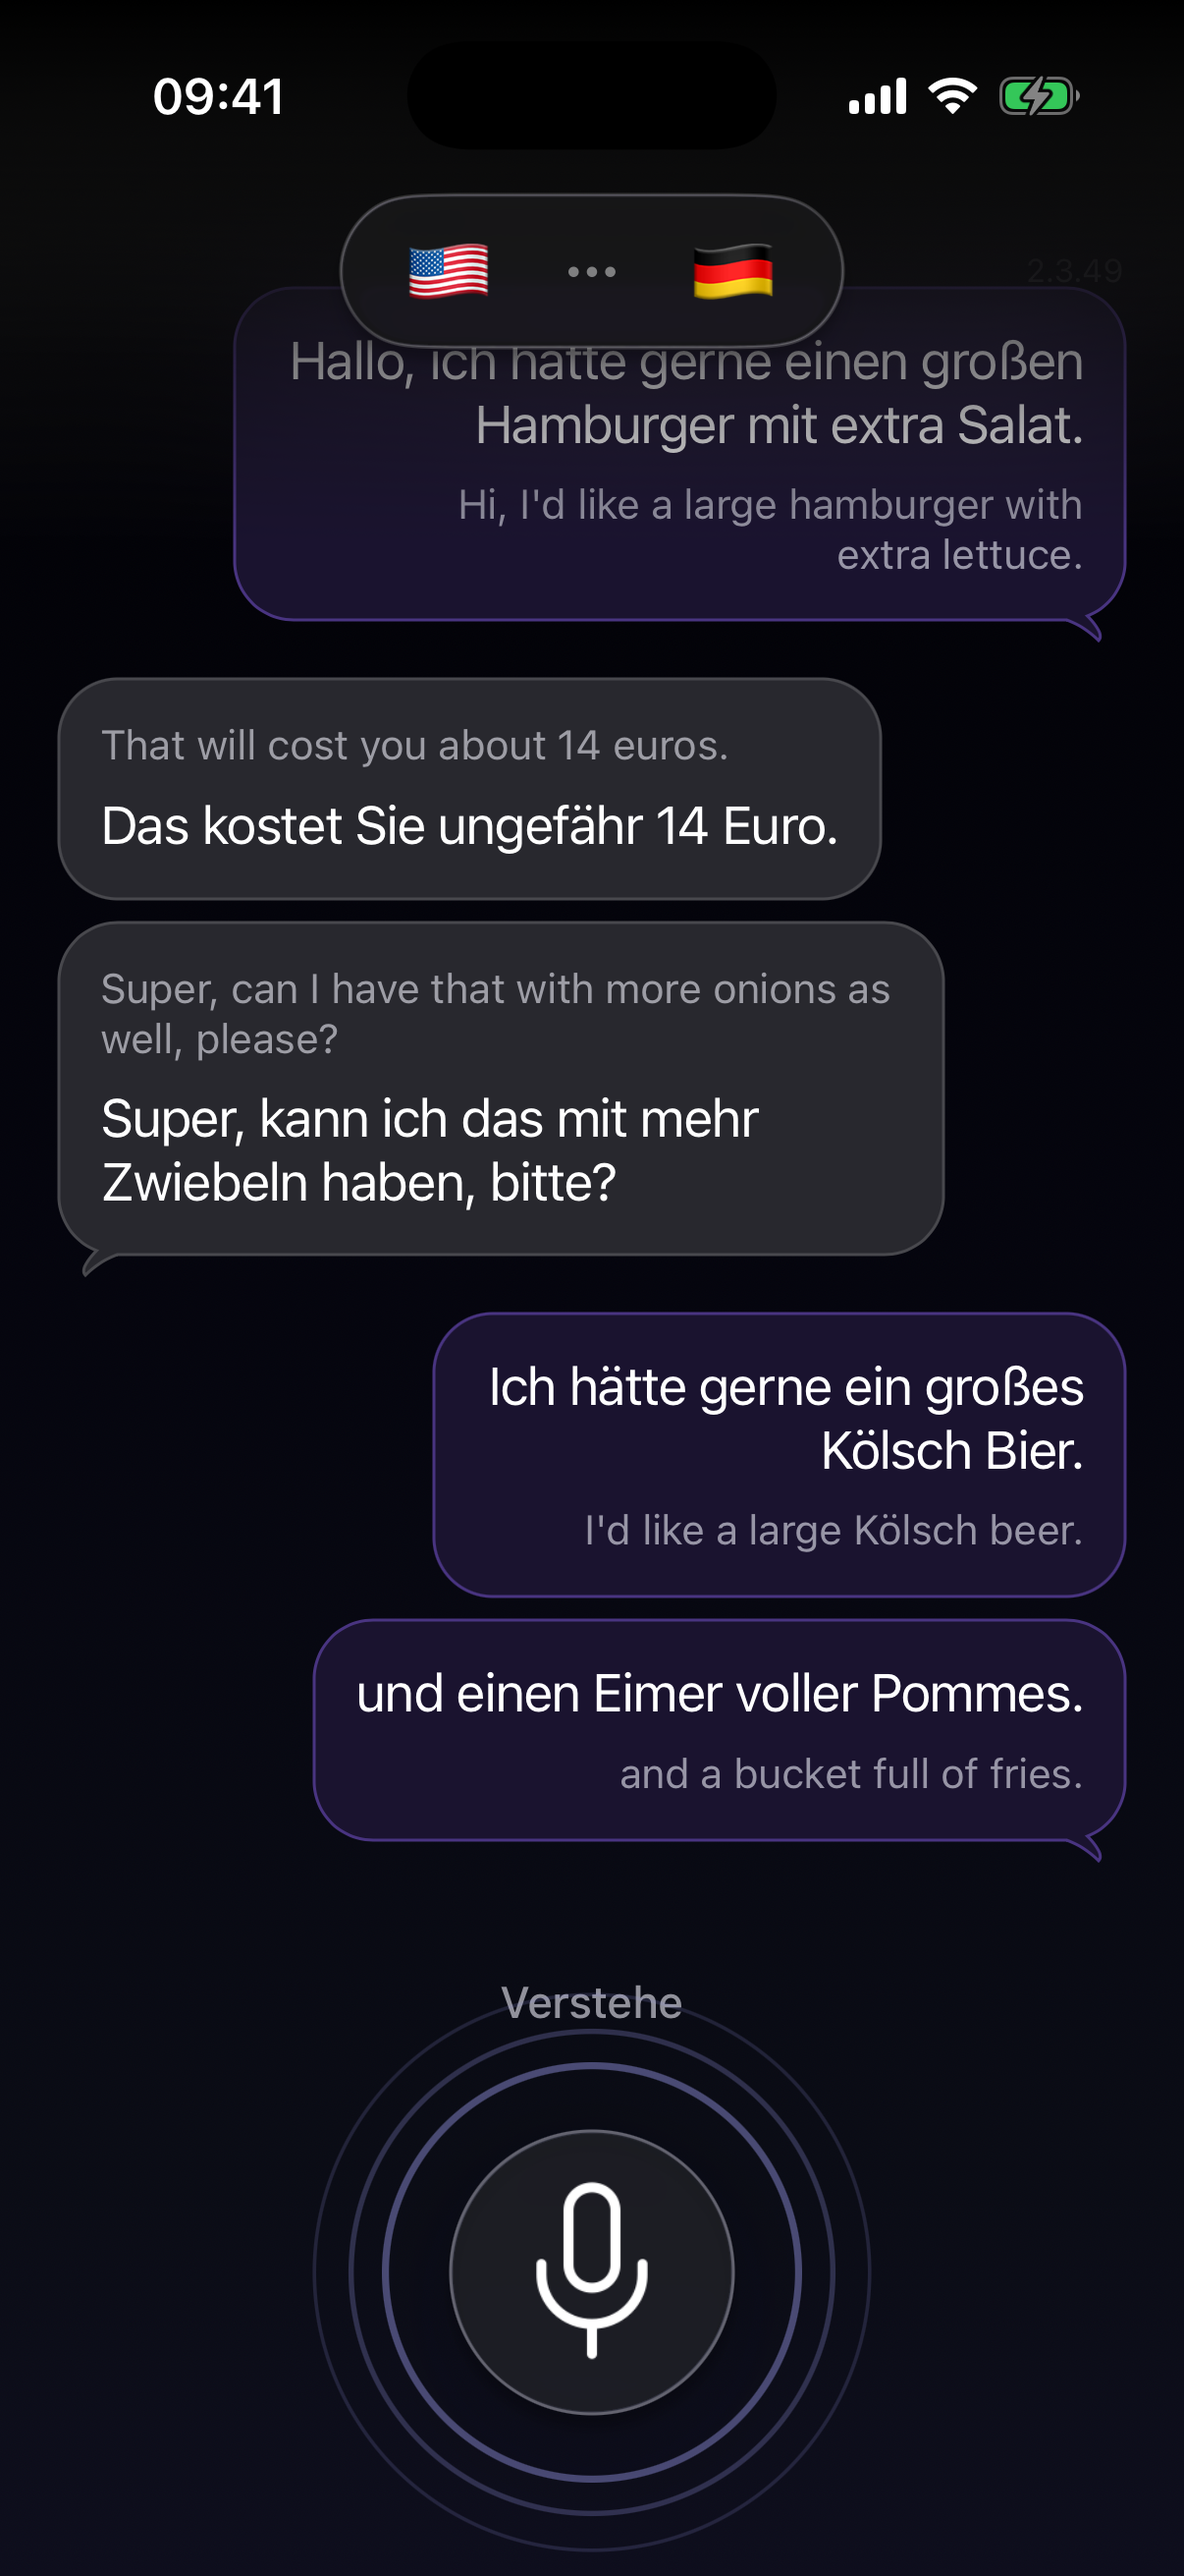
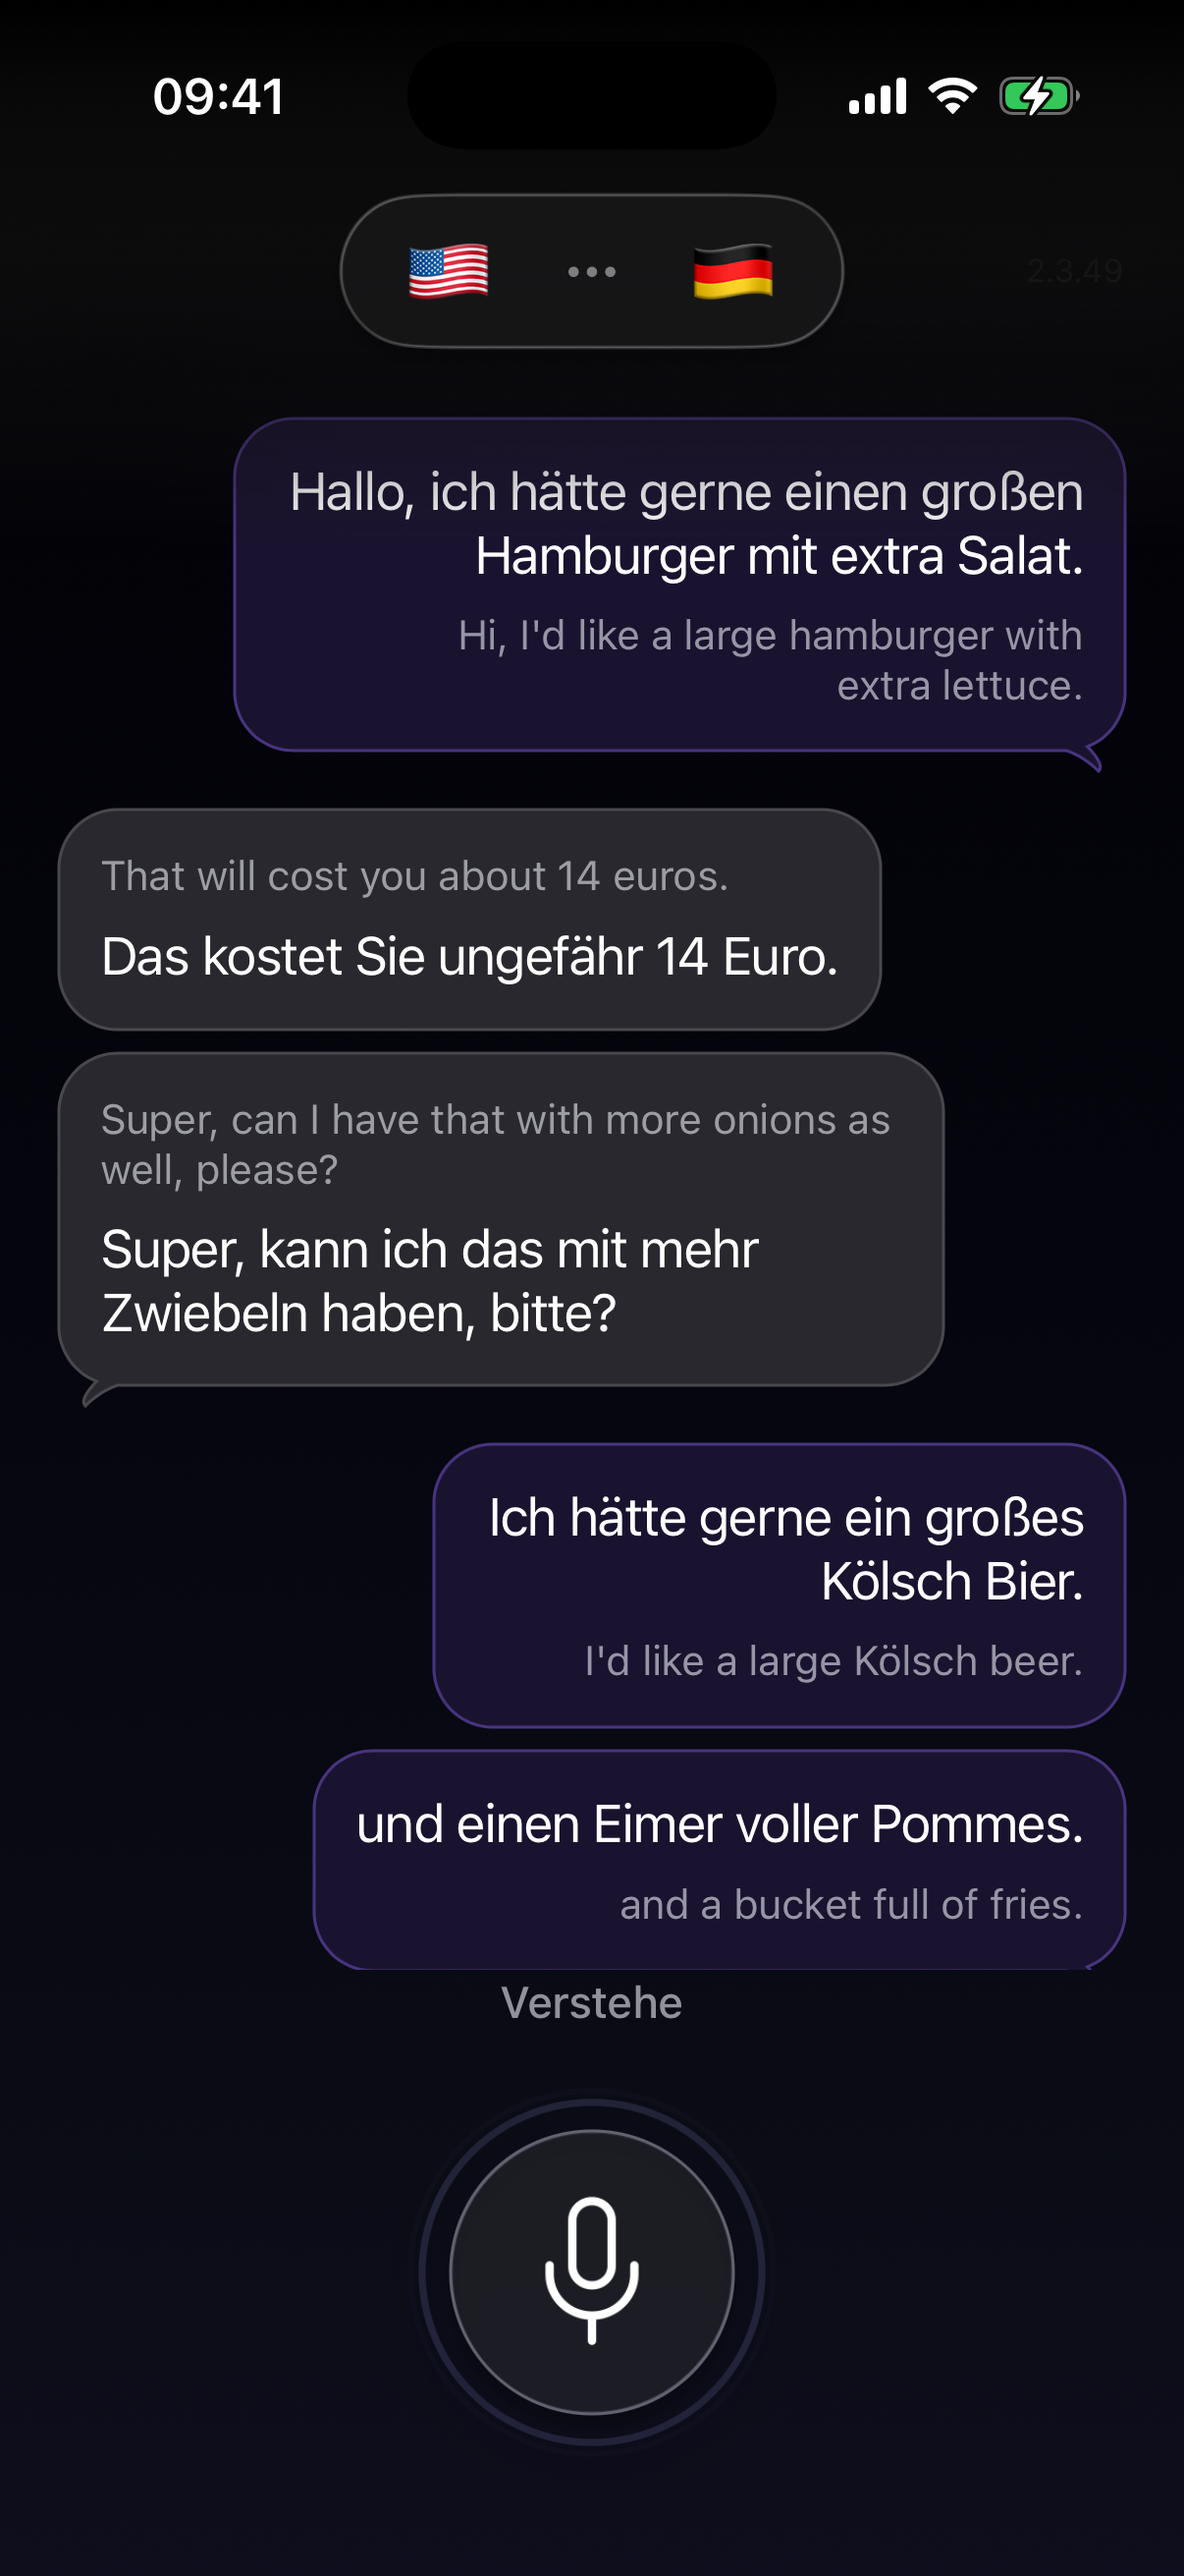
Nothing in a store frame is half-hidden, and the capture is a script now
Recaptured all three from this branch's build (2.3.49) on the 6.3" and
6.9" simulators, seeded with the same invented food-order transcript.

The 6.3" frame no longer cuts its first bubble. The seeded transcript is
slightly taller than that viewport, so at one end of its scroll range the
first bubble sits under the language pill and at the other the last sits
under the status line; there is a position between them where neither
does, and that is where this is captured. The 6.9" screen is tall enough
that the question never arises.

The third frame is no longer the muted state. micReadsAsMuted is true
whenever the app is not listening, so an idle capture is the amber
struck-through mic — accurate, and to anyone scrolling the App Store it
is the symbol for a microphone that is blocked. The two 6.9" frames are
now the two halves of a live turn: Verstehe (hearing you) and Uebersetze
(speaking back), which is also what makes them worth two slots.

Tools/appstore_flatten.py replaces the flatten step whose script lived in
a session scratchpad and is gone. It refuses on the first non-opaque
pixel rather than compositing it against an arbitrary background, and
refuses a wrong frame size; both refusals verified against a deliberately
tampered copy. Verified the flatten is lossless: each shipped PNG is
pixel-identical to its raw capture on RGB.

Tools/appstore-shots.sh is the capture itself — build, install, grant,
[…]

Changed region(s): [[0.0307, 0.1236, 0.9511, 1.0], [0.859, 0.0309, 0.8897, 0.0618]]

diff --git a/Tools/appstore_flatten.py b/Tools/appstore_flatten.py
@@ -1,0 +1,71 @@
+#!/usr/bin/env python3
+"""Flatten App Store screenshots to opaque RGB, refusing anything lossy.
+
+App Store Connect rejects PNGs carrying an alpha channel. A simulator
+capture always has one, and it is always fully opaque — so dropping it is a
+channel removal, not a composite, and the pixels a reviewer sees are the
+pixels the app drew.
+
+That "always" is the part worth checking rather than trusting: if any pixel
+were actually transparent, dropping alpha would silently composite it
+against whatever RGB happened to sit underneath, and the frame shipped to
+the store would differ from the frame the app rendered. So this refuses on
+the first non-opaque pixel instead of producing a plausible-looking file.
+
+Usage:  Tools/appstore_flatten.py <in.png> <out.png> [--expect WxH]
+
+The one-off script that produced the first set of captures lived in a
+session scratchpad and is gone (PR #95); this is that step, kept.
+"""
+import sys
+
+from PIL import Image
+
+
+def flatten(src: str, dst: str, expect: str | None) -> int:
+    image = Image.open(src)
+
+    if expect:
+        want = tuple(int(n) for n in expect.lower().split("x"))
+        if image.size != want:
+            print(f"!!  {src} is {image.size[0]}x{image.size[1]}, expected "
+                  f"{want[0]}x{want[1]} — wrong simulator, or a scaled capture.",
+                  file=sys.stderr)
+            return 1
+
+    if image.mode in ("RGBA", "LA") or "transparency" in image.info:
+        alpha = image.convert("RGBA").getchannel("A")
+        low, high = alpha.getextrema()
+        if low != 255:
+            print(f"!!  {src} has a non-opaque pixel (min alpha {low}).",
+                  file=sys.stderr)
+            print("!!  Dropping alpha would composite it against an "
+                  "arbitrary background, so the store frame would no longer "
+                  "be what the app drew. Refusing.", file=sys.stderr)
+            return 1
+
+    # Every pixel is opaque, so this discards a constant channel and touches
+    # no colour value. Saved without alpha; dimensions are untouched.
+    image.convert("RGB").save(dst, format="PNG", optimize=True)
+
+    check = Image.open(dst)
+    if check.mode != "RGB" or check.size != image.size:
+        print(f"!!  {dst} came back as {check.mode} {check.size} — "
+              f"expected RGB {image.size}.", file=sys.stderr)
+        return 1
+    print(f"==> {dst}  {check.size[0]}x{check.size[1]}  RGB, no alpha")
+    return 0
+
+
+def main(argv: list[str]) -> int:
+    if len(argv) < 3:
+        print(__doc__, file=sys.stderr)
+        return 2
+    expect = None
+    if "--expect" in argv:
+        expect = argv[argv.index("--expect") + 1]
+    return flatten(argv[1], argv[2], expect)
+
+
+if __name__ == "__main__":
+    sys.exit(main(sys.argv))
